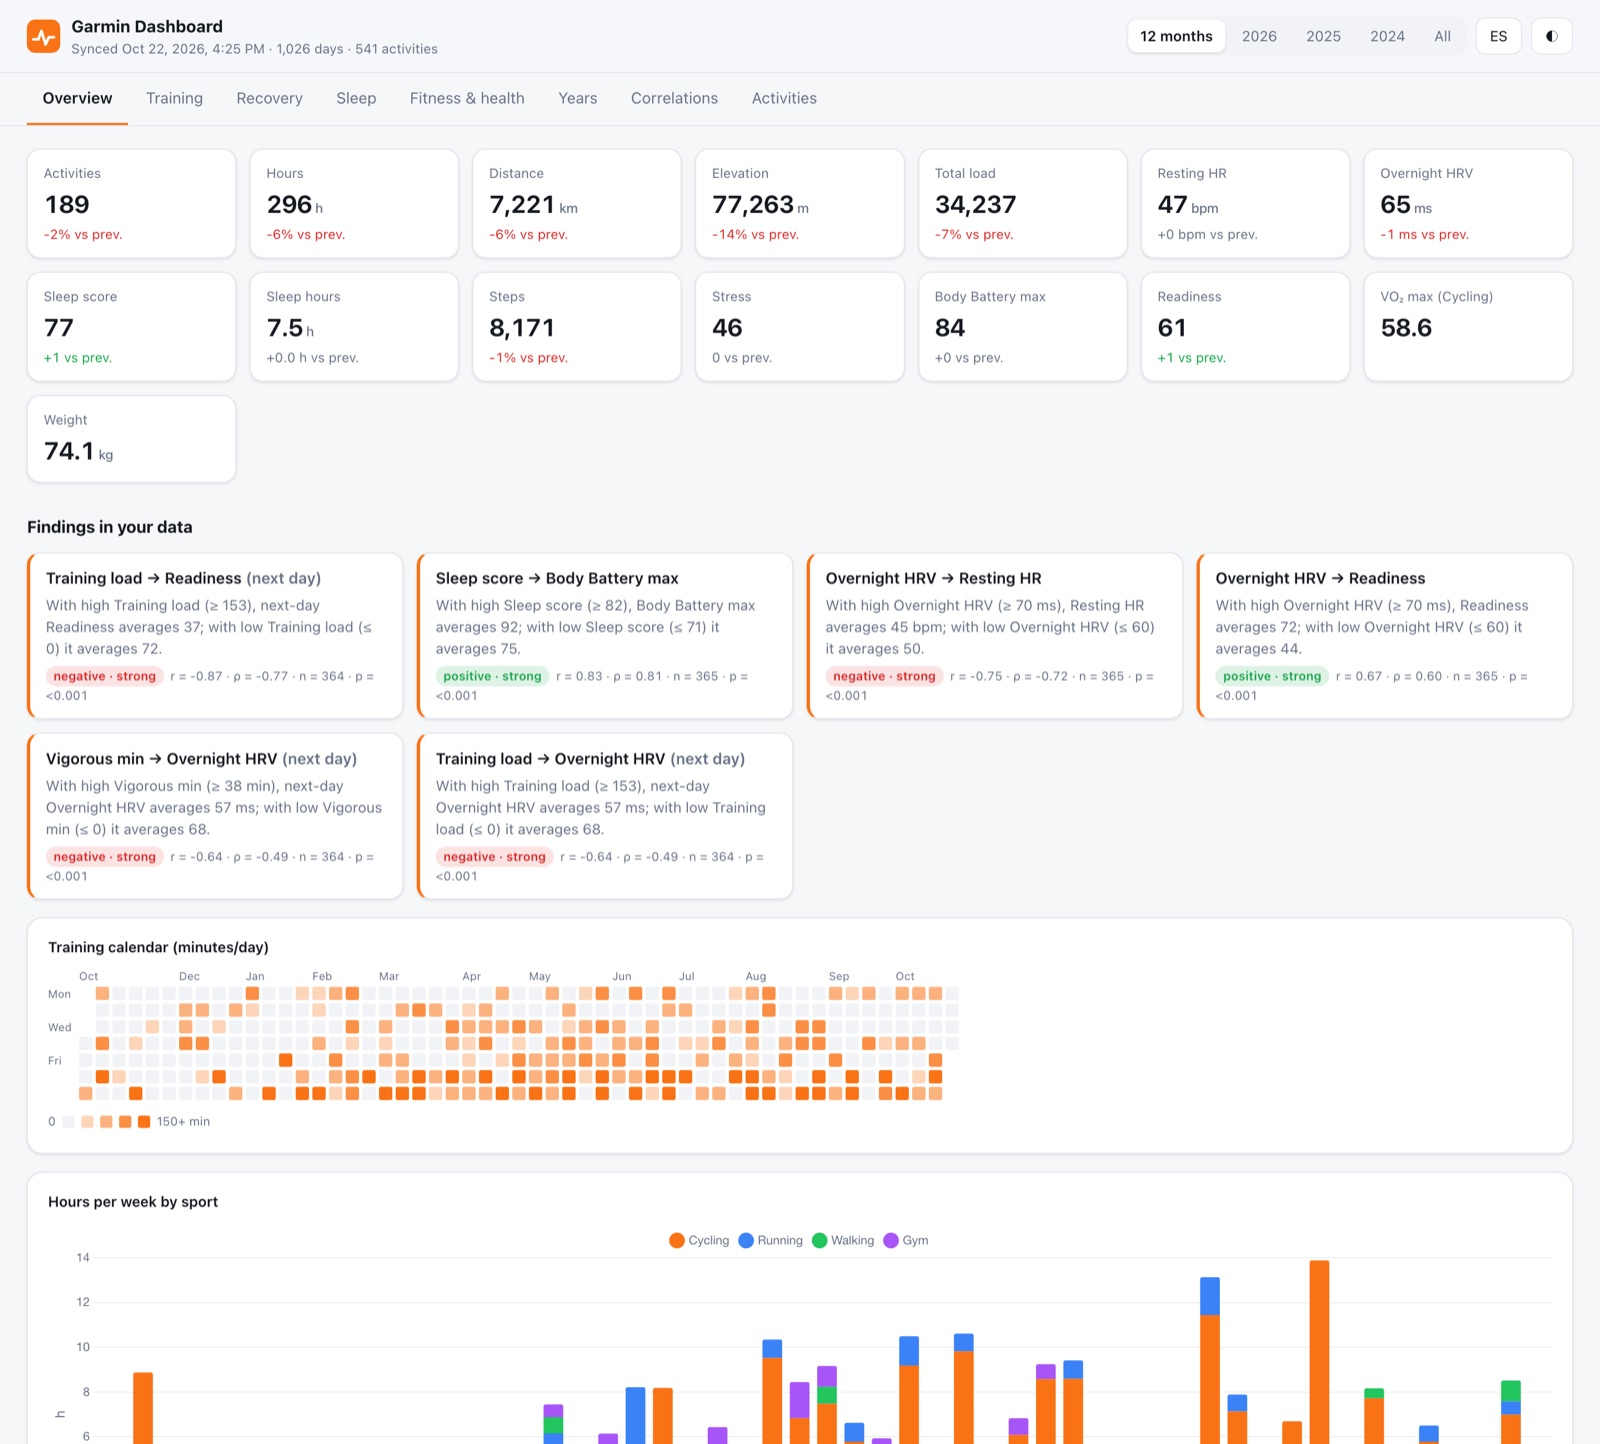
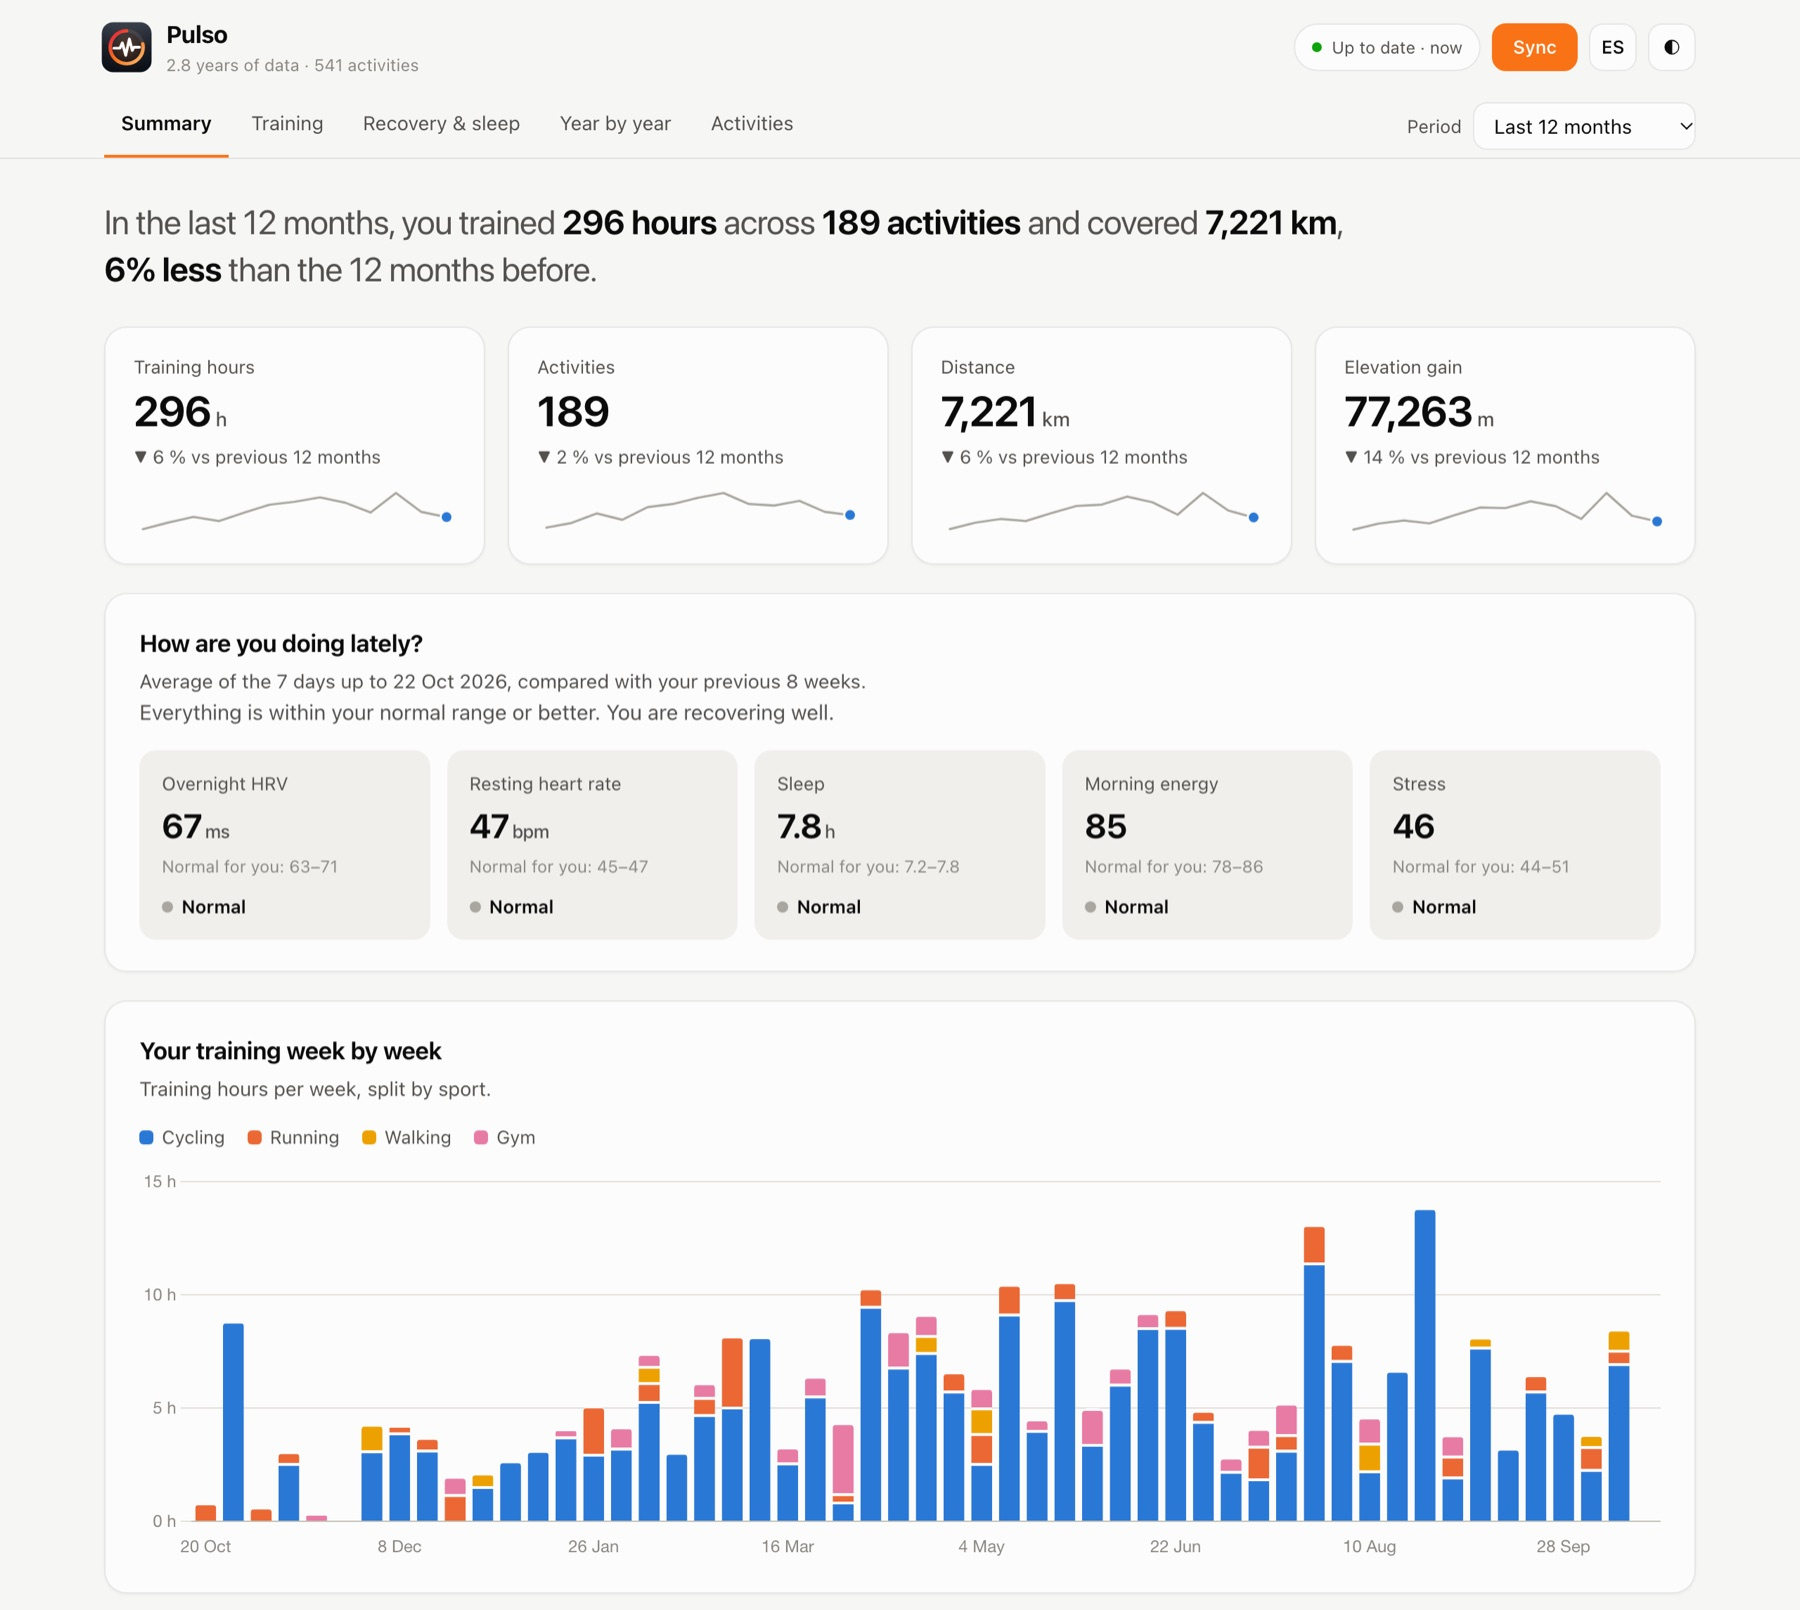
docs: screenshots of the redesigned dashboard (demo data)

diff --git a/README.md b/README.md
@@ -26,7 +26,7 @@
 </p>
 
 <p align="center">
-  <img src="docs/screenshots/overview.jpg" alt="Garmin Dashboard overview: yearly KPIs, findings from correlations, training calendar and weekly hours by sport" width="900">
+  <img src="docs/screenshots/overview.jpg" alt="Pulso summary: a sentence with the period totals, four key numbers with trends, a recovery check against your normal range and weekly hours by sport" width="900">
   <br/><sub>Dashboard running on <code>--demo</code> data.</sub>
 </p>
 
@@ -107,7 +107,13 @@ The dashboard is a small local app: it opens straight away with what is already 
 Every view follows the period selector: **last 12 months**, **any single year**, or **all history**.
 
 <p align="center">
-  <img src="docs/screenshots/correlations.jpg" alt="Correlations view: findings, matrix and scatter explorer" width="900">
+  <img src="docs/screenshots/training.jpg" alt="Training: hours per sport, month by month, fitness and fatigue, heart-rate zones, training calendar and best marks" width="290">
+  <img src="docs/screenshots/health.jpg" alt="Recovery and sleep: one card per metric with an explanation and weekly trend, sleep stages, VO2 max and weight" width="290">
+  <img src="docs/screenshots/history.jpg" alt="Year by year: running totals per year and a year summary table" width="290">
+</p>
+
+<p align="center">
+  <img src="docs/screenshots/findings.jpg" alt="Findings written as plain sentences, each with a two-bar comparison" width="900">
 </p>
 
 ### Correlations
